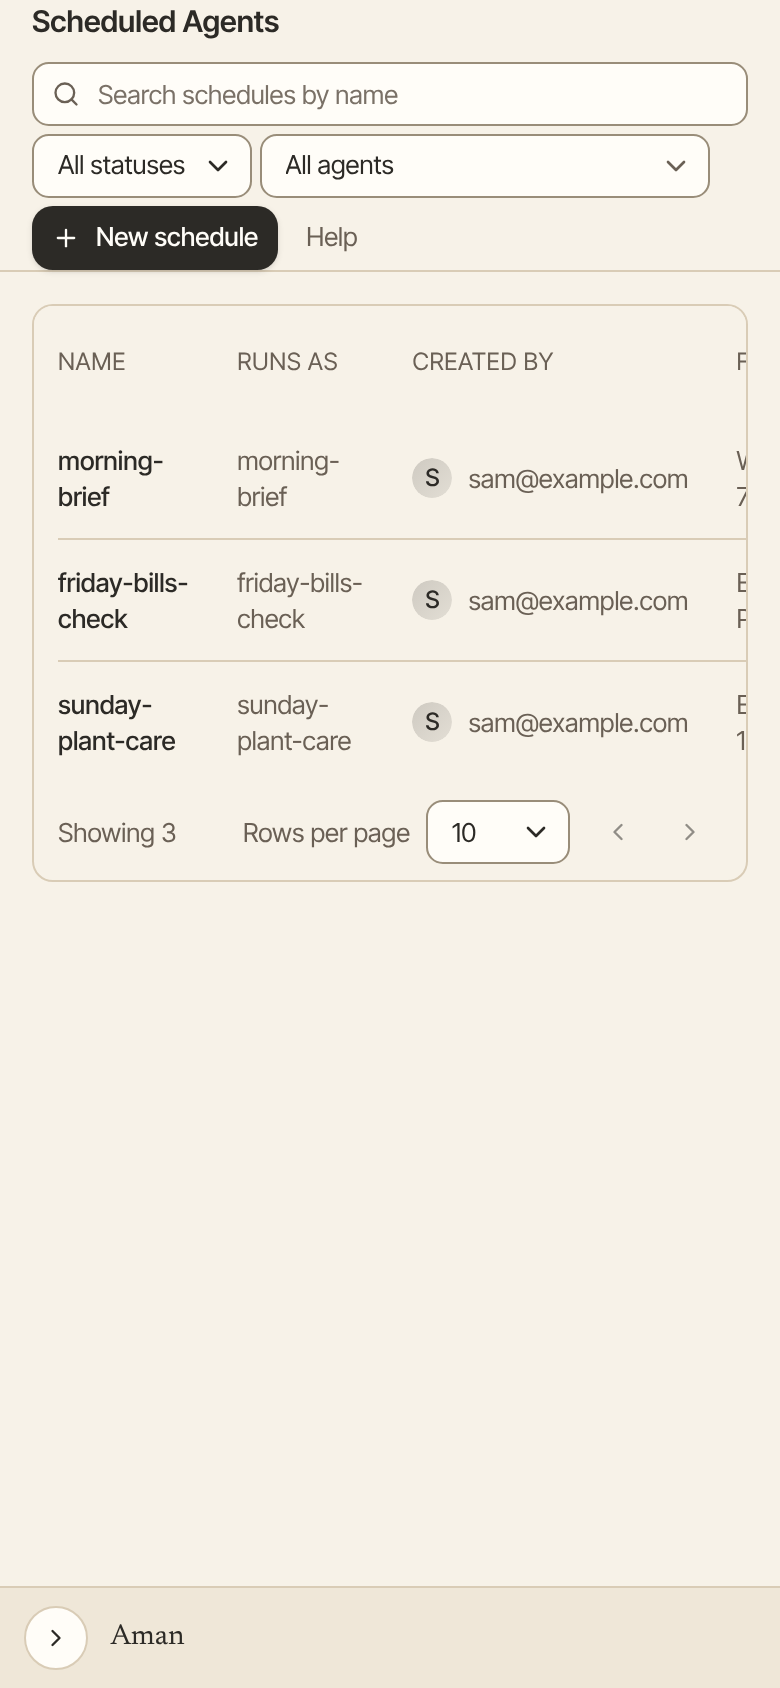
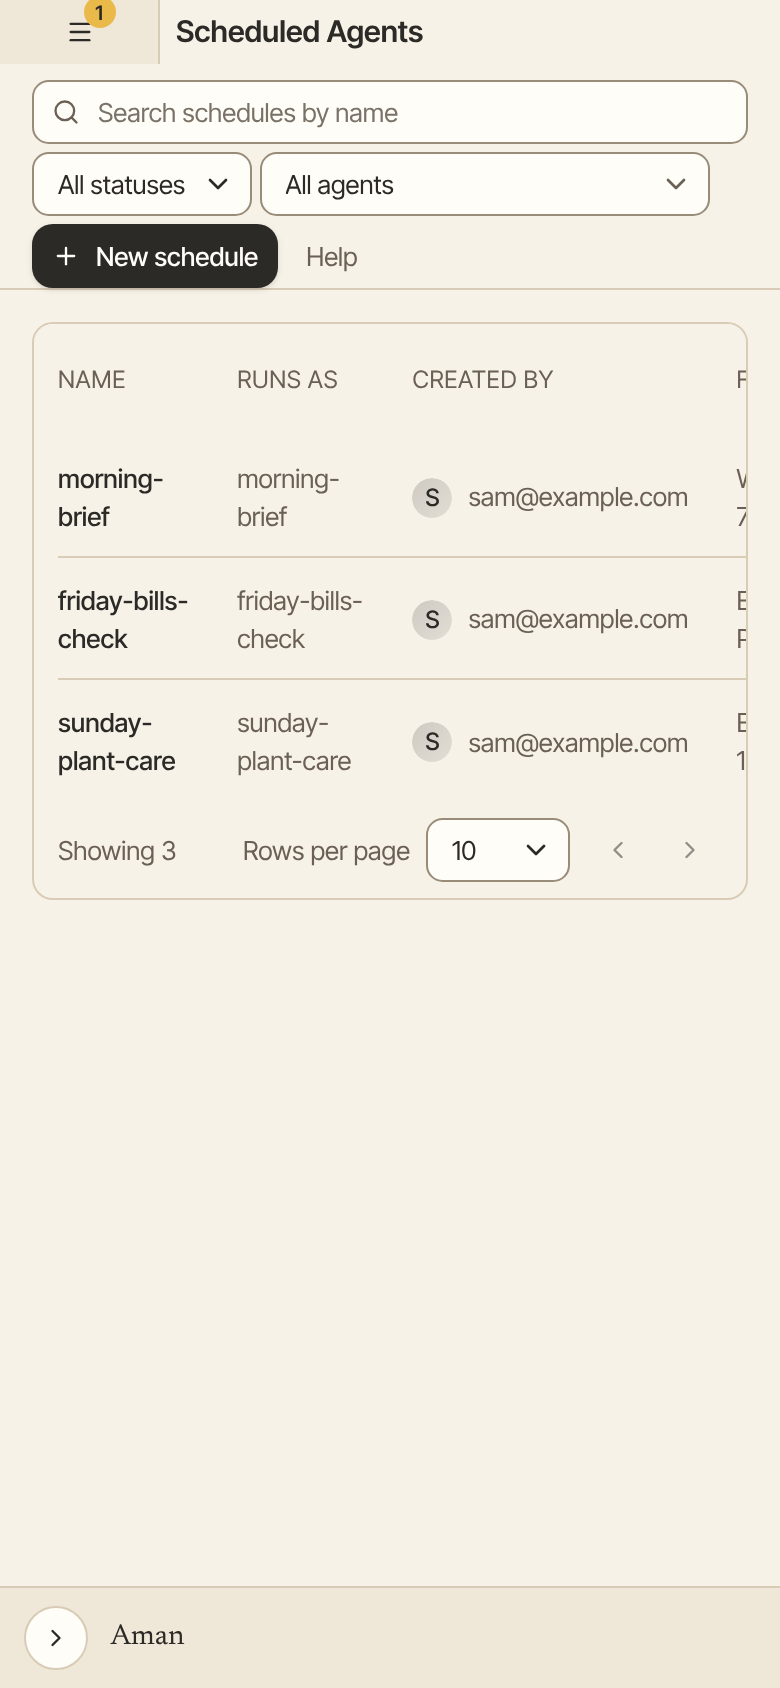
Say in help how to reach and leave Schedules and Reminders on a phone

diff --git a/packages/trueforge/src/personas/amanGuide/knowledgePack.generated.ts b/packages/trueforge/src/personas/amanGuide/knowledgePack.generated.ts
@@ -272,13 +272,13 @@ export const AMAN_GUIDE_TOPICS: readonly AmanGuideTopic[] = [
     id: 'reminders',
     title: 'Reminders',
     covers: ['remember', 'route:reminder'],
-    body: 'A reminder is a short note Aman gives you at the time you ask, such as "Remind me at 5 pm to call the pharmacy". It only ever reaches you, so Aman sets it without asking.\n\nHow to get there: In any chat, ask Aman to remind you.\n\n## Set a reminder\n\n1. In any chat, ask with a time, such as "Remind me at 5 pm to call the pharmacy".\n2. Aman sets it. A line in the chat says when it is due and what it says.\n\nNot sure when? Click **Don\'t let me forget** on the new chat screen. Aman asks what you must not forget, suggests a good time, and asks before it sets it.\n\nA reminder can also repeat every day, every weekday, or on the days you choose, such as "Remind me every Monday at 8 am to put the bins out".\n\n## Before a reminder goes off\n\nOn the new chat screen, the panel on the right lists today\'s reminders under **Due** until they go off. On a phone, open the strip at the bottom to see them. The bell does not show a reminder before it goes off.\n\n## When a reminder is due\n\n- It leaves **Due** and shows under **For you**, the bell at the top of the left panel. A number on the bell counts what you haven\'t seen. On a phone, tap the menu button to see the bell; that button shows the count too.\n- It also appears at the end of the chat you set it in. If Aman is still answering in that chat, the line waits until the answer ends.\n- That chat shows an unread mark in your chat list until you open it.\n- If you turned on notices, your device shows one too, even when Aman is closed. The notice only says "Reminder". The words open in Aman. You choose how reminders reach you in **Settings**, then **Reach me**. See [Reach me](reach-me.md).\n\n## Use the bell\n\n1. Click the bell at the top of the left panel. It is labeled **For you**. On a phone, tap the menu button first. The **For you** panel opens.\n2. Each item says what it is, when it came, and why you got it.\n3. An item that came from a chat ends with **Open chat**. Click the item to go to that chat.\n4. Click **Mark all seen** to clear the count.\n\n=== "Computer"\n\n    ![The For you panel open from the bell, with a reminder to call the pharmacy](../../../../docs/screenshots/app/reminders-bell-desktop.png)\n\n=== "Phone"\n\n    ![The For you panel open from the bell, with a reminder to call the pharmacy](../../../../docs/screenshots/app/reminders-bell-phone.png)\n\nA reminder whose chat was deleted still shows under the bell. It has no **Open chat** line.\n\n## Turn on notices\n\nAfter you set your first reminder, Aman offers to show notices on this device. Click **Turn on notices**, then allow them when your browser asks. Click **Not now** to skip. Aman does not offer again on this device.\n\nTo change it later:\n\n1. Click **More** in the left bar, then **Settings**, then **Reach me**.\n2. Under **Notices on this device**, click **Turn on for this device** or **Turn off on this device**.\n\nEach device has its own setting. If the page says notices are not set up on this server, ask the person who runs your Aman to turn them on.\n\n## Mark a reminder urgent\n\nSay so when you ask, such as "Remind me at 5 pm to call the pharmacy, it\'s urgent". An urgent reminder can call you once phone calls are set up and you tick **Call me for reminders I mark urgent** in **Reach me**.\n\n## See, delete or cancel reminders\n\n=== "Computer"\n\n    ![The Reminders page, with a reminder coming up in 7 days, a link to its chat and a bin to delete it](../../../../docs/screenshots/app/reminders-page-desktop.png)\n\n=== "Phone"\n\n    ![The Reminders page, with a reminder coming up in 7 days, a link to its chat and a bin to delete it](../../../../docs/screenshots/app/reminders-page-phone.png)\n\n1. Click **Reminders** in the left panel. It lists what is coming up and what has already reminded you, with the persona that set each one. Each reminder shows its day, how far off it is, such as "In 3 weeks", and whether it repeats or is paused. Click a reminder that says **Open chat** to go to the chat you set it in. A reminder says **No chat to open** when its chat was deleted, or when it was set before Aman kept track of the chat. Or, in any chat, ask "What reminders do I have?"\n2. To delete one on that page, click the bin at the end of its row. A box asks you to confirm. Click **Delete** to remove it, or **Cancel** to keep it.\n3. Or ask in a chat, such as "Cancel the pharmacy reminder". A card shows the reminder. Click **Allow** to cancel it, or **Not now** to keep it.\n\nA deleted or canceled reminder is gone for good. A repeating one will not remind you again.\n\n## Good to know\n\n- Reminders don\'t show on the Schedules page. They have their own list under **Reminders** in the left panel. That page is where you see every reminder and delete the ones you don\'t need.\n- An incognito chat can\'t set or cancel a reminder. Ask in a normal chat.\n- A scheduled run can\'t set a reminder by itself. It holds the reminder for your OK.\n- A reminder costs nothing when it fires. Aman doesn\'t use a model to deliver it.\n- Each reminder that is set or fires is one line under **Settings**, **Audit**.\n\n## Related\n\n- [Schedules](schedules.md)\n- [Calendar](calendar.md)\n- [Your morning brief](daily-brief.md)',
+    body: 'A reminder is a short note Aman gives you at the time you ask, such as "Remind me at 5 pm to call the pharmacy". It only ever reaches you, so Aman sets it without asking.\n\nHow to get there: In any chat, ask Aman to remind you.\n\n## Set a reminder\n\n1. In any chat, ask with a time, such as "Remind me at 5 pm to call the pharmacy".\n2. Aman sets it. A line in the chat says when it is due and what it says.\n\nNot sure when? Click **Don\'t let me forget** on the new chat screen. Aman asks what you must not forget, suggests a good time, and asks before it sets it.\n\nA reminder can also repeat every day, every weekday, or on the days you choose, such as "Remind me every Monday at 8 am to put the bins out".\n\n## Before a reminder goes off\n\nOn the new chat screen, the panel on the right lists today\'s reminders under **Due** until they go off. On a phone, open the strip at the bottom to see them. The bell does not show a reminder before it goes off.\n\n## When a reminder is due\n\n- It leaves **Due** and shows under **For you**, the bell at the top of the left panel. A number on the bell counts what you haven\'t seen. On a phone, tap the menu button to see the bell; that button shows the count too.\n- It also appears at the end of the chat you set it in. If Aman is still answering in that chat, the line waits until the answer ends.\n- That chat shows an unread mark in your chat list until you open it.\n- If you turned on notices, your device shows one too, even when Aman is closed. The notice only says "Reminder". The words open in Aman. You choose how reminders reach you in **Settings**, then **Reach me**. See [Reach me](reach-me.md).\n\n## Use the bell\n\n1. Click the bell at the top of the left panel. It is labeled **For you**. On a phone, tap the menu button first. The **For you** panel opens.\n2. Each item says what it is, when it came, and why you got it.\n3. An item that came from a chat ends with **Open chat**. Click the item to go to that chat.\n4. Click **Mark all seen** to clear the count.\n\n=== "Computer"\n\n    ![The For you panel open from the bell, with a reminder to call the pharmacy](../../../../docs/screenshots/app/reminders-bell-desktop.png)\n\n=== "Phone"\n\n    ![The For you panel open from the bell, with a reminder to call the pharmacy](../../../../docs/screenshots/app/reminders-bell-phone.png)\n\nA reminder whose chat was deleted still shows under the bell. It has no **Open chat** line.\n\n## Turn on notices\n\nAfter you set your first reminder, Aman offers to show notices on this device. Click **Turn on notices**, then allow them when your browser asks. Click **Not now** to skip. Aman does not offer again on this device.\n\nTo change it later:\n\n1. Click **More** in the left bar, then **Settings**, then **Reach me**.\n2. Under **Notices on this device**, click **Turn on for this device** or **Turn off on this device**.\n\nEach device has its own setting. If the page says notices are not set up on this server, ask the person who runs your Aman to turn them on.\n\n## Mark a reminder urgent\n\nSay so when you ask, such as "Remind me at 5 pm to call the pharmacy, it\'s urgent". An urgent reminder can call you once phone calls are set up and you tick **Call me for reminders I mark urgent** in **Reach me**.\n\n## See, delete or cancel reminders\n\n=== "Computer"\n\n    ![The Reminders page, with a reminder coming up in 7 days, a link to its chat and a bin to delete it](../../../../docs/screenshots/app/reminders-page-desktop.png)\n\n=== "Phone"\n\n    ![The Reminders page, with a reminder coming up in 7 days, a link to its chat and a bin to delete it](../../../../docs/screenshots/app/reminders-page-phone.png)\n\n1. Click **Reminders** in the left panel. On a phone, tap the menu button at the top left first. The same button on the Reminders page takes you back to your chats. It lists what is coming up and what has already reminded you, with the persona that set each one. Each reminder shows its day, how far off it is, such as "In 3 weeks", and whether it repeats or is paused. Click a reminder that says **Open chat** to go to the chat you set it in. A reminder says **No chat to open** when its chat was deleted, or when it was set before Aman kept track of the chat. Or, in any chat, ask "What reminders do I have?"\n2. To delete one on that page, click the bin at the end of its row. A box asks you to confirm. Click **Delete** to remove it, or **Cancel** to keep it.\n3. Or ask in a chat, such as "Cancel the pharmacy reminder". A card shows the reminder. Click **Allow** to cancel it, or **Not now** to keep it.\n\nA deleted or canceled reminder is gone for good. A repeating one will not remind you again.\n\n## Good to know\n\n- Reminders don\'t show on the Schedules page. They have their own list under **Reminders** in the left panel. That page is where you see every reminder and delete the ones you don\'t need.\n- An incognito chat can\'t set or cancel a reminder. Ask in a normal chat.\n- A scheduled run can\'t set a reminder by itself. It holds the reminder for your OK.\n- A reminder costs nothing when it fires. Aman doesn\'t use a model to deliver it.\n- Each reminder that is set or fires is one line under **Settings**, **Audit**.\n\n## Related\n\n- [Schedules](schedules.md)\n- [Calendar](calendar.md)\n- [Your morning brief](daily-brief.md)',
   },
   {
     id: 'schedules',
     title: 'Schedules',
     covers: ['approval:schedule', 'route:schedule'],
-    body: 'A schedule asks Aman to do the same job again and again, such as "Every weekday at 7:30, send me my morning brief". Each run is saved as a chat, so you can open it and see what Aman found. The chat is named for the schedule and the day it ran, such as "Morning brief · Thursday, November 13".\n\nHow to get there: Click **Schedules** in the left bar.\n\n=== "Computer"\n\n    ![The Schedules page with a list of schedules, their frequency and status](../../../../docs/screenshots/app/schedules-page-desktop.png)\n\n=== "Phone"\n\n    ![The Schedules page with a list of schedules, their frequency and status](../../../../docs/screenshots/app/schedules-page-phone.png)\n\nA schedule repeats and does work for you. For a simple nudge at a set time, use a [reminder](reminders.md) instead.\n\n## Make a schedule by asking\n\n1. Click **Chats** in the left bar, then click **New chat**.\n2. Type what you want and how often, such as "Every weekday at 7:30, send me my morning brief". If the time is unclear, Aman asks.\n3. A card shows the schedule: its name, when it runs, who runs it, the next few runs, and what it will do each time. Check it.\n4. The card also lists what the schedule may use: your **Connectors**, your **Skills**, **Run code** and **Memory**. Aman ticks the ones it thinks the task needs. Tick or untick any of them. A skill needs **Run code**, so that box stays ticked while a skill is ticked.\n5. If you changed a tick, click **Update the card**. Aman shows the card again with your choices.\n6. Click **Allow** to start it. Click **Change it** to reword it first, or **Not now** to drop it.\n\nAman saves your choices as a new agent with the same name as the schedule. To change them later, click **Agents** in the left bar and open that agent. Deleting the schedule doesn\'t delete the agent. The schedule keeps the persona you were using.\n\nIf you ask from a chat that already uses one of your agents, the schedule runs as that agent. The card then shows that agent\'s tools, with nothing to tick.\n\n## Make a schedule on the Schedules page\n\n1. Click **Schedules** in the left bar.\n2. Click **New schedule**.\n3. In **Agent**, pick the agent that should do the job. If you have none, see [Agents](agents.md).\n4. Type a **Name** and a **Task**. The task is what Aman does on each run.\n5. Under **Frequency**, click **Hourly**, **Daily** or **Weekly**. For **Weekly**, pick the **Days**.\n6. Set the **Hour**, the **Minute** and the **Timezone**.\n7. Click **Save**. The schedule is saved paused, so it doesn\'t run yet.\n8. To try it once, click **Run test**. Your schedule doesn\'t change.\n9. Click **Activate Schedule** to start it.\n\nRuns are always at least one hour apart.\n\n## Run, pause, change or delete a schedule\n\nOn the Schedules page:\n\n- Click **Run now** on a row to run it at once. Aman opens the run\'s chat.\n- Click the three dots on a row, then click **Edit**, **Pause**, **Resume** or **Delete**.\n- **Delete** asks you to confirm. A deleted schedule stops for good.\n\nOr ask in any chat, such as "Pause my morning brief" or "Delete the weekly report schedule". A card shows the schedule and when it runs. Click **Allow** to go ahead. Aman asks every time.\n\n## What a scheduled run holds for your OK\n\nA scheduled run happens while you are away, so it never sends or changes anything of yours by itself.\n\n1. The run reads and searches, the same as a chat.\n2. Anything that would show a card in a chat is held instead. That includes running code and setting a reminder, which a chat may do without asking.\n3. When the run ends, its chat ends with a **Needs your OK** list. Nothing on it has been done yet.\n4. Click **Allow** on an item to do it, or **Deny** to drop it.\n5. When you approve, Aman checks the item again. If anything on it changed since, nothing is done, and Aman says to ask again in a chat.\n\nHeld items expire after 24 hours.\n\nA space is the one exception. A run can make and change any space without asking, so a list it keeps for you stays up to date. Every change keeps a version you can ask Aman to bring back. Each change is also one line under **Settings**, **Audit**. Aman can\'t delete a space.\n\n## Good to know\n\n- A scheduled run sends no notice. Its results wait in its chat until you open it.\n- A scheduled run can read your Gmail, but it never drafts or sends Gmail mail.\n- An incognito chat can\'t make, pause or delete a schedule. Ask in a normal chat.\n- Reminders don\'t show on the Schedules page. See [Reminders](reminders.md).\n- The full rules for what a run may do are on [How schedules hold actions](../../../../docs/schedules.md).\n\n## Related\n\n- [Reminders](reminders.md)\n- [Your morning brief](daily-brief.md)\n- [Approval cards](approvals.md)',
+    body: 'A schedule asks Aman to do the same job again and again, such as "Every weekday at 7:30, send me my morning brief". Each run is saved as a chat, so you can open it and see what Aman found. The chat is named for the schedule and the day it ran, such as "Morning brief · Thursday, November 13".\n\nHow to get there: Click **Schedules** in the left bar. On a phone, tap the menu button at the top left first.\n\n=== "Computer"\n\n    ![The Schedules page with a list of schedules, their frequency and status](../../../../docs/screenshots/app/schedules-page-desktop.png)\n\n=== "Phone"\n\n    ![The Schedules page with a list of schedules, their frequency and status](../../../../docs/screenshots/app/schedules-page-phone.png)\n\nA schedule repeats and does work for you. For a simple nudge at a set time, use a [reminder](reminders.md) instead.\n\n## Make a schedule by asking\n\n1. Click **Chats** in the left bar, then click **New chat**.\n2. Type what you want and how often, such as "Every weekday at 7:30, send me my morning brief". If the time is unclear, Aman asks.\n3. A card shows the schedule: its name, when it runs, who runs it, the next few runs, and what it will do each time. Check it.\n4. The card also lists what the schedule may use: your **Connectors**, your **Skills**, **Run code** and **Memory**. Aman ticks the ones it thinks the task needs. Tick or untick any of them. A skill needs **Run code**, so that box stays ticked while a skill is ticked.\n5. If you changed a tick, click **Update the card**. Aman shows the card again with your choices.\n6. Click **Allow** to start it. Click **Change it** to reword it first, or **Not now** to drop it.\n\nAman saves your choices as a new agent with the same name as the schedule. To change them later, click **Agents** in the left bar and open that agent. Deleting the schedule doesn\'t delete the agent. The schedule keeps the persona you were using.\n\nIf you ask from a chat that already uses one of your agents, the schedule runs as that agent. The card then shows that agent\'s tools, with nothing to tick.\n\n## Make a schedule on the Schedules page\n\n1. Click **Schedules** in the left bar.\n2. Click **New schedule**.\n3. In **Agent**, pick the agent that should do the job. If you have none, see [Agents](agents.md).\n4. Type a **Name** and a **Task**. The task is what Aman does on each run.\n5. Under **Frequency**, click **Hourly**, **Daily** or **Weekly**. For **Weekly**, pick the **Days**.\n6. Set the **Hour**, the **Minute** and the **Timezone**.\n7. Click **Save**. The schedule is saved paused, so it doesn\'t run yet.\n8. To try it once, click **Run test**. Your schedule doesn\'t change.\n9. Click **Activate Schedule** to start it.\n\nRuns are always at least one hour apart.\n\n## Run, pause, change or delete a schedule\n\nOn the Schedules page:\n\n- Click **Run now** on a row to run it at once. Aman opens the run\'s chat.\n- Click the three dots on a row, then click **Edit**, **Pause**, **Resume** or **Delete**.\n- **Delete** asks you to confirm. A deleted schedule stops for good.\n\nOr ask in any chat, such as "Pause my morning brief" or "Delete the weekly report schedule". A card shows the schedule and when it runs. Click **Allow** to go ahead. Aman asks every time.\n\n## What a scheduled run holds for your OK\n\nA scheduled run happens while you are away, so it never sends or changes anything of yours by itself.\n\n1. The run reads and searches, the same as a chat.\n2. Anything that would show a card in a chat is held instead. That includes running code and setting a reminder, which a chat may do without asking.\n3. When the run ends, its chat ends with a **Needs your OK** list. Nothing on it has been done yet.\n4. Click **Allow** on an item to do it, or **Deny** to drop it.\n5. When you approve, Aman checks the item again. If anything on it changed since, nothing is done, and Aman says to ask again in a chat.\n\nHeld items expire after 24 hours.\n\nA space is the one exception. A run can make and change any space without asking, so a list it keeps for you stays up to date. Every change keeps a version you can ask Aman to bring back. Each change is also one line under **Settings**, **Audit**. Aman can\'t delete a space.\n\n## Good to know\n\n- A scheduled run sends no notice. Its results wait in its chat until you open it.\n- A scheduled run can read your Gmail, but it never drafts or sends Gmail mail.\n- An incognito chat can\'t make, pause or delete a schedule. Ask in a normal chat.\n- Reminders don\'t show on the Schedules page. See [Reminders](reminders.md).\n- The full rules for what a run may do are on [How schedules hold actions](../../../../docs/schedules.md).\n\n## Related\n\n- [Reminders](reminders.md)\n- [Your morning brief](daily-brief.md)\n- [Approval cards](approvals.md)',
   },
   {
     id: 'skills',

diff --git a/packages/trueforge/guide/topics/reminders.md b/packages/trueforge/guide/topics/reminders.md
@@ -70,7 +70,7 @@ Say so when you ask, such as "Remind me at 5 pm to call the pharmacy, it's urgen
 
     ![The Reminders page, with a reminder coming up in 7 days, a link to its chat and a bin to delete it](../../../../docs/screenshots/app/reminders-page-phone.png)
 
-1. Click **Reminders** in the left panel. It lists what is coming up and what has already reminded you, with the persona that set each one. Each reminder shows its day, how far off it is, such as "In 3 weeks", and whether it repeats or is paused. Click a reminder that says **Open chat** to go to the chat you set it in. A reminder says **No chat to open** when its chat was deleted, or when it was set before Aman kept track of the chat. Or, in any chat, ask "What reminders do I have?"
+1. Click **Reminders** in the left panel. On a phone, tap the menu button at the top left first. The same button on the Reminders page takes you back to your chats. It lists what is coming up and what has already reminded you, with the persona that set each one. Each reminder shows its day, how far off it is, such as "In 3 weeks", and whether it repeats or is paused. Click a reminder that says **Open chat** to go to the chat you set it in. A reminder says **No chat to open** when its chat was deleted, or when it was set before Aman kept track of the chat. Or, in any chat, ask "What reminders do I have?"
 2. To delete one on that page, click the bin at the end of its row. A box asks you to confirm. Click **Delete** to remove it, or **Cancel** to keep it.
 3. Or ask in a chat, such as "Cancel the pharmacy reminder". A card shows the reminder. Click **Allow** to cancel it, or **Not now** to keep it.
 

diff --git a/packages/trueforge/guide/topics/schedules.md b/packages/trueforge/guide/topics/schedules.md
@@ -6,7 +6,7 @@ covers: approval:schedule, route:schedule
 
 A schedule asks Aman to do the same job again and again, such as "Every weekday at 7:30, send me my morning brief". Each run is saved as a chat, so you can open it and see what Aman found. The chat is named for the schedule and the day it ran, such as "Morning brief · Thursday, November 13".
 
-How to get there: Click **Schedules** in the left bar.
+How to get there: Click **Schedules** in the left bar. On a phone, tap the menu button at the top left first.
 
 === "Computer"
 
